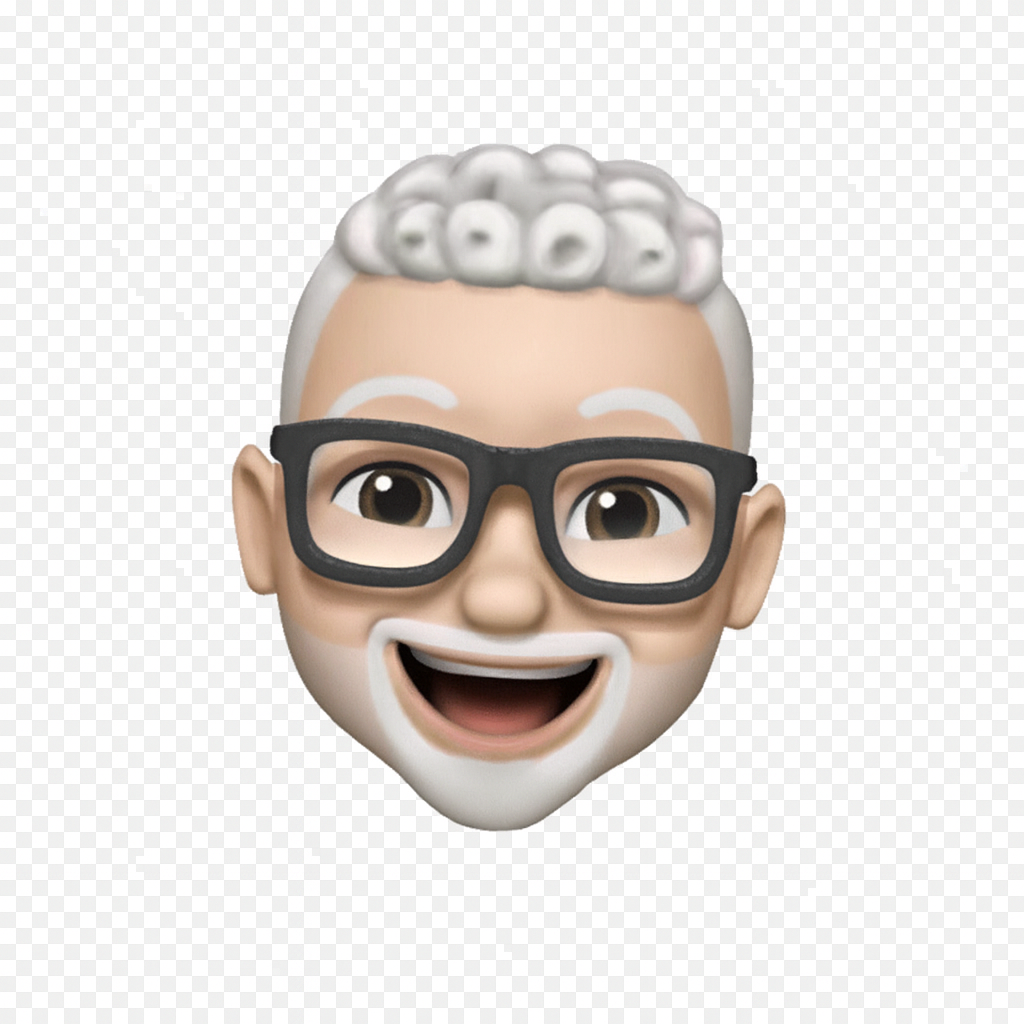
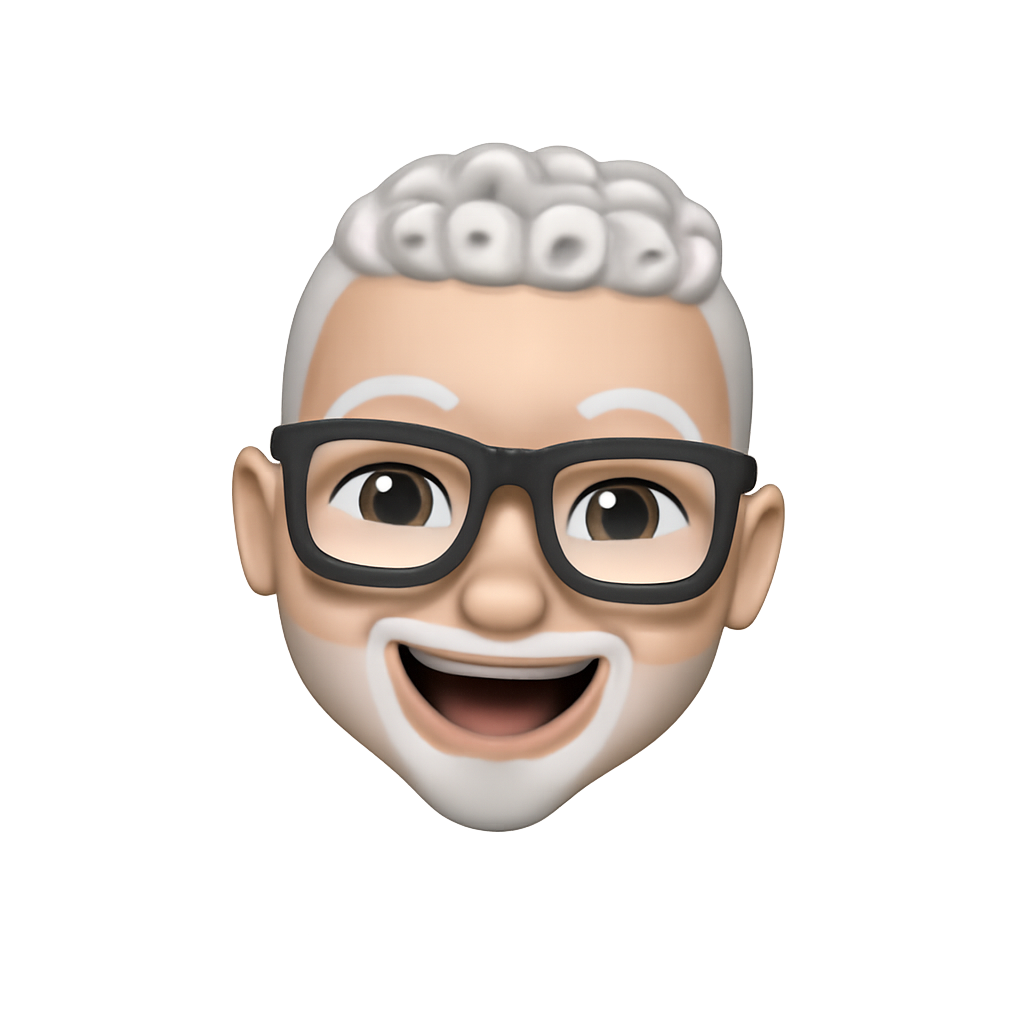
feat: added the profile image with transparernt background

diff --git a/app/(tabs)/index.tsx b/app/(tabs)/index.tsx
@@ -6,14 +6,14 @@ import ChatListItem from '@/components/ui/ChatListItem';
 import FloatingActionButton from '@/components/ui/FloatingActionButton';
 
 const chatData = [
-  { id: '1', name: 'Faza Dzikrulloh', message: 'Typing...', time: '14:30', image: require('@/assets/images/Faza Dzikrulloh.png') },
+  { id: '1', name: 'Faza Dzikrulloh', message: 'Typing...', time: '14:30', image: require('@/assets/images/Faza.png') },
   { id: '2', name: 'Hatypo Studio', message: 'Faza Can you help me to do with new project...', time: '14:30', unreadCount: 2, image: require('@/assets/images/Hatypo Studio.png') },
-  { id: '3', name: 'Zhofran A', message: 'I think we should upgrade the social media...', time: '14:00', unreadCount: 2, image: require('@/assets/images/Zhofran A.png') },
-  { id: '4', name: 'Vito Arvy', message: 'Okay adhit, I\'ll tel faza about it 👍🏼 ', time: '13:40', image: require('@/assets/images/Vito Arvy.png') },
+  { id: '3', name: 'Zhofran A', message: 'I think we should upgrade the social media...', time: '14:00', unreadCount: 2, image: require('@/assets/images/Zhofran.png') },
+  { id: '4', name: 'Vito Arvy', message: 'Okay adhit, I\'ll tel faza about it 👍🏼 ', time: '13:40', image: require('@/assets/images/Vito.png') },
   { id: '5', name: 'Raul', message: 'Thanks Raul! 🙏🏼✨', time: 'Yesterday', sent: true, image: require('@/assets/images/Raul.png') },
-  { id: '6', name: 'Farhan Bagas', message: 'Great work farhan! 👍🏼 I\'ll tell faza about logo...', time: '29/08/22', sent: true, image: require('@/assets/images/Farhan Bagas.png') },
+  { id: '6', name: 'Farhan Bagas', message: 'Great work farhan! 👍🏼 I\'ll tell faza about logo...', time: '29/08/22', sent: true, image: require('@/assets/images/Farhan.png') },
   { id: '7', name: 'Abdull', message: 'Perfecto!🔥 I will check it later', time: '29/08/22', sent: true, image: require('@/assets/images/Abdull.png') },
-  { id: '8', name: 'Ibe hatypo', message: 'nicely done bro! 🤙🏼', time: '29/08/22', sent: true, image: require('@/assets/images/Ibe hatypo.png')  },
+  { id: '8', name: 'Ibe hatypo', message: 'nicely done bro! 🤙🏼', time: '29/08/22', sent: true, image: require('@/assets/images/Ibe.png')  },
 ];
 
 export default function Home() {
